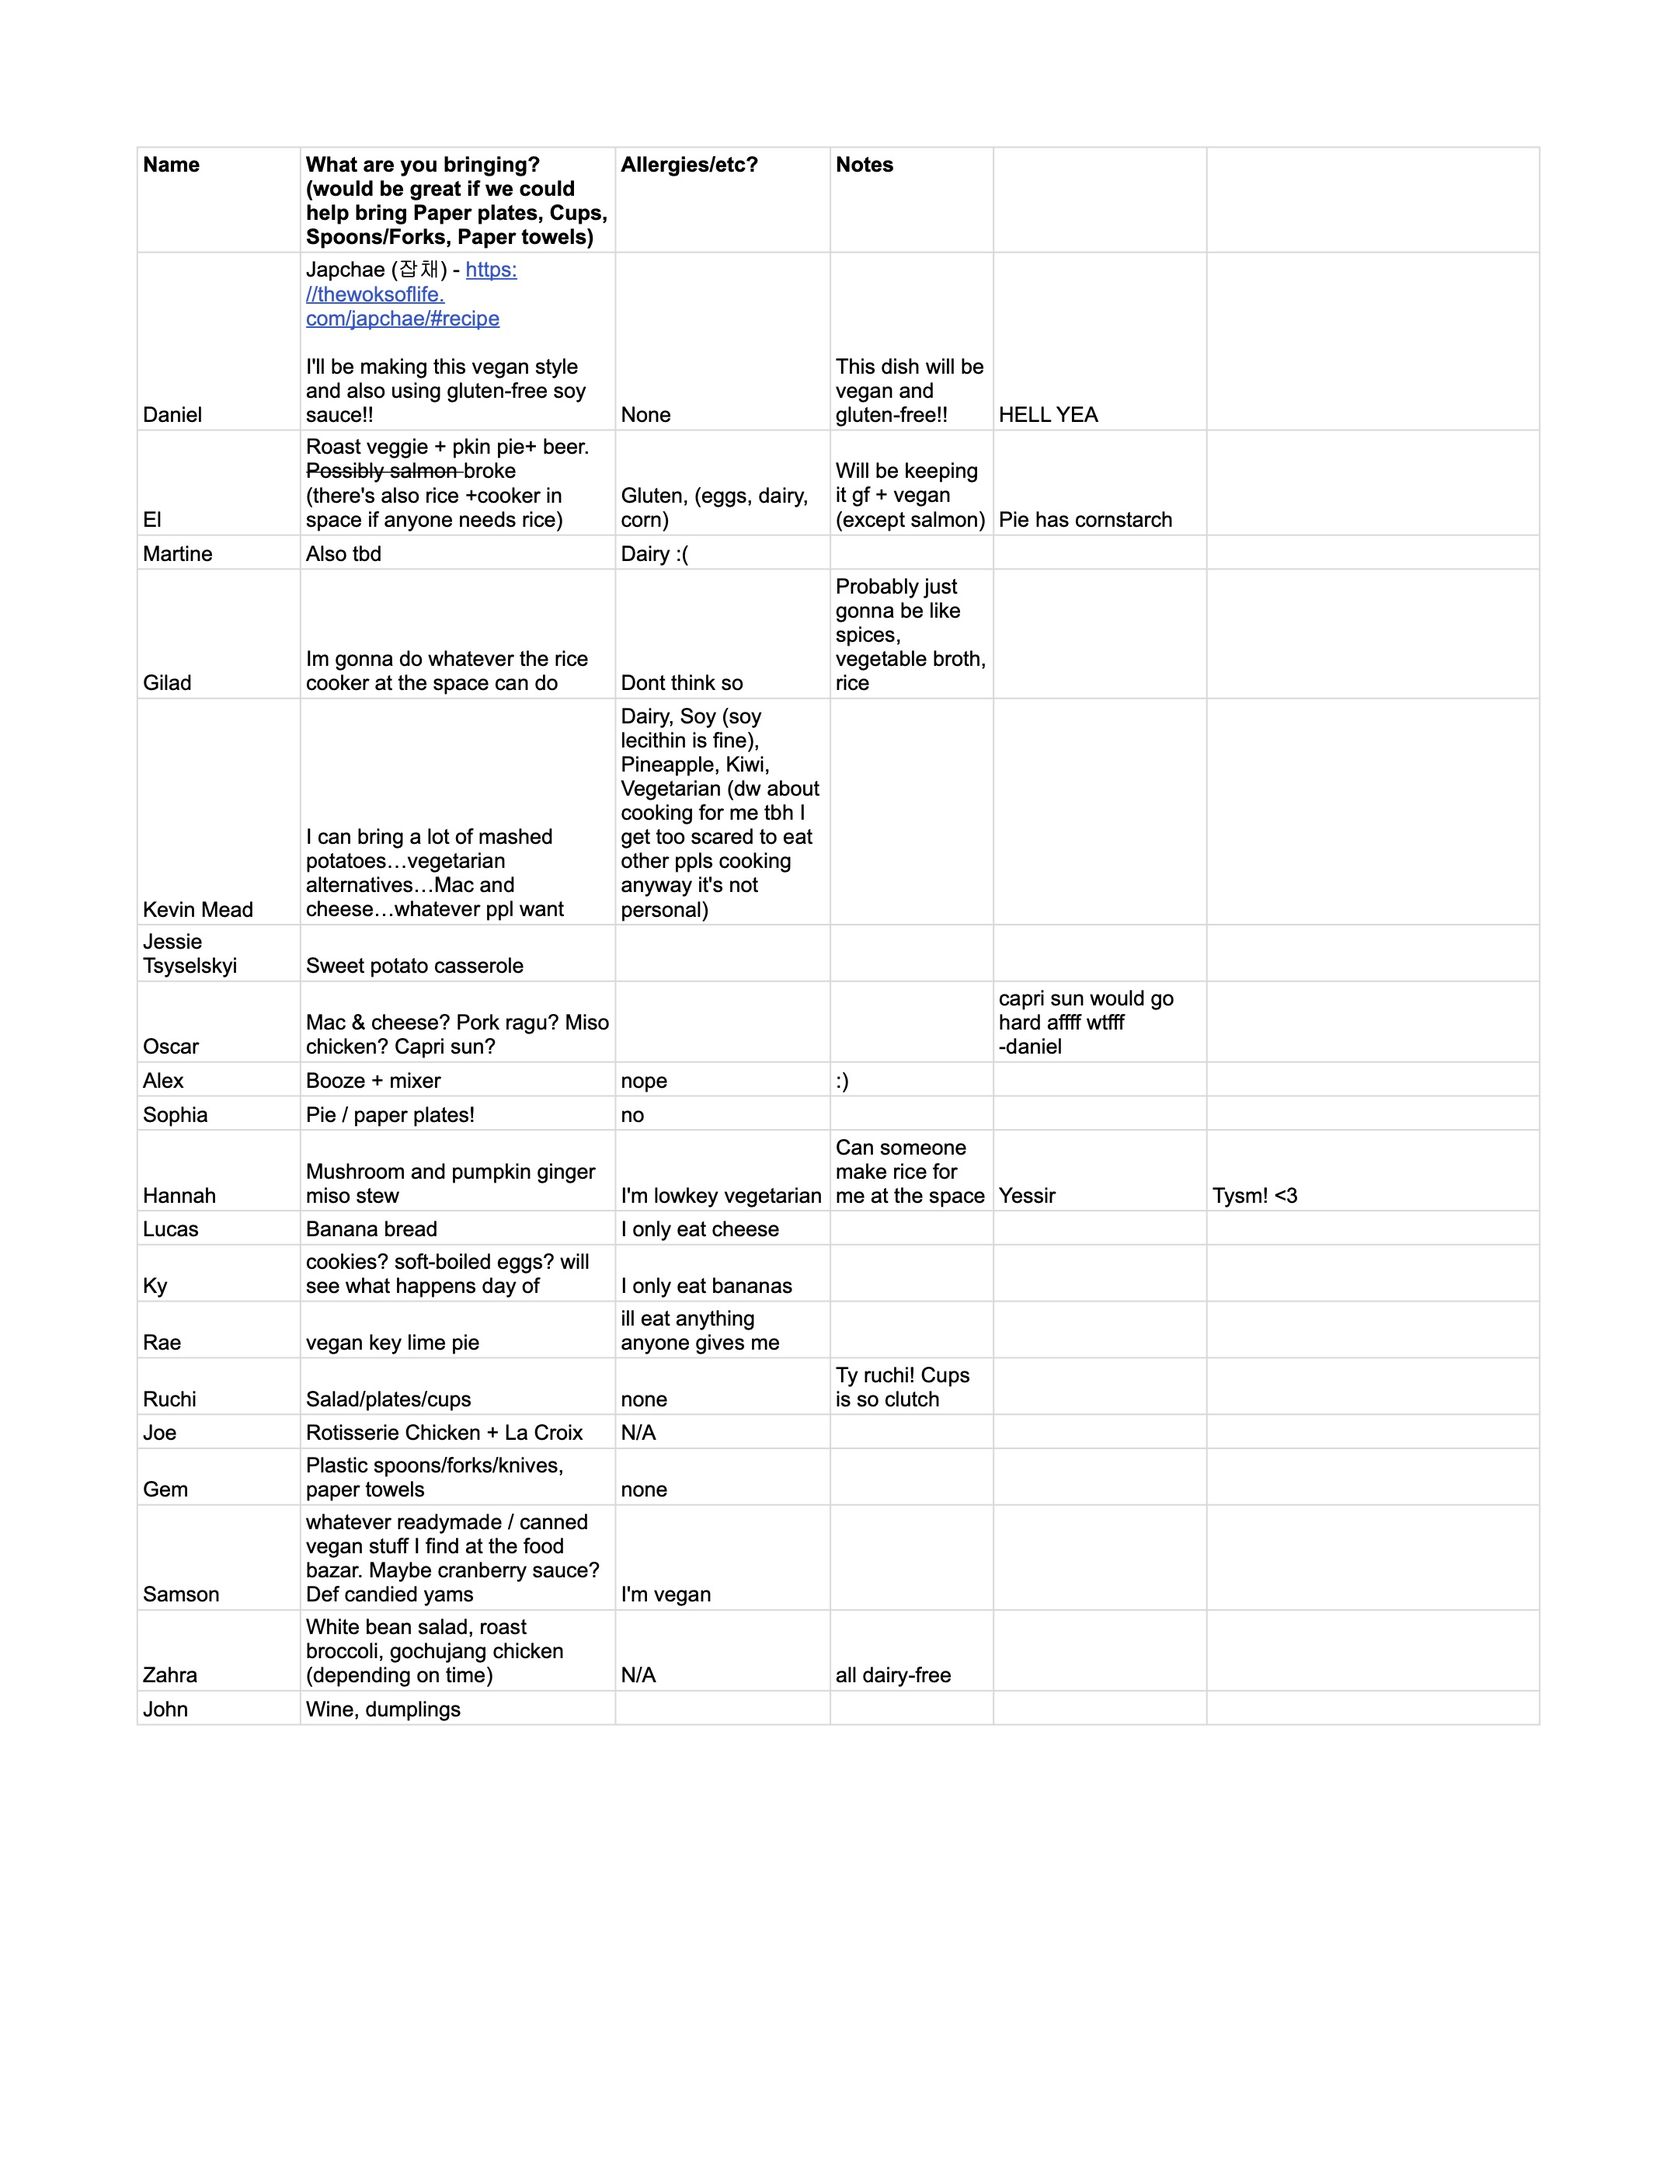
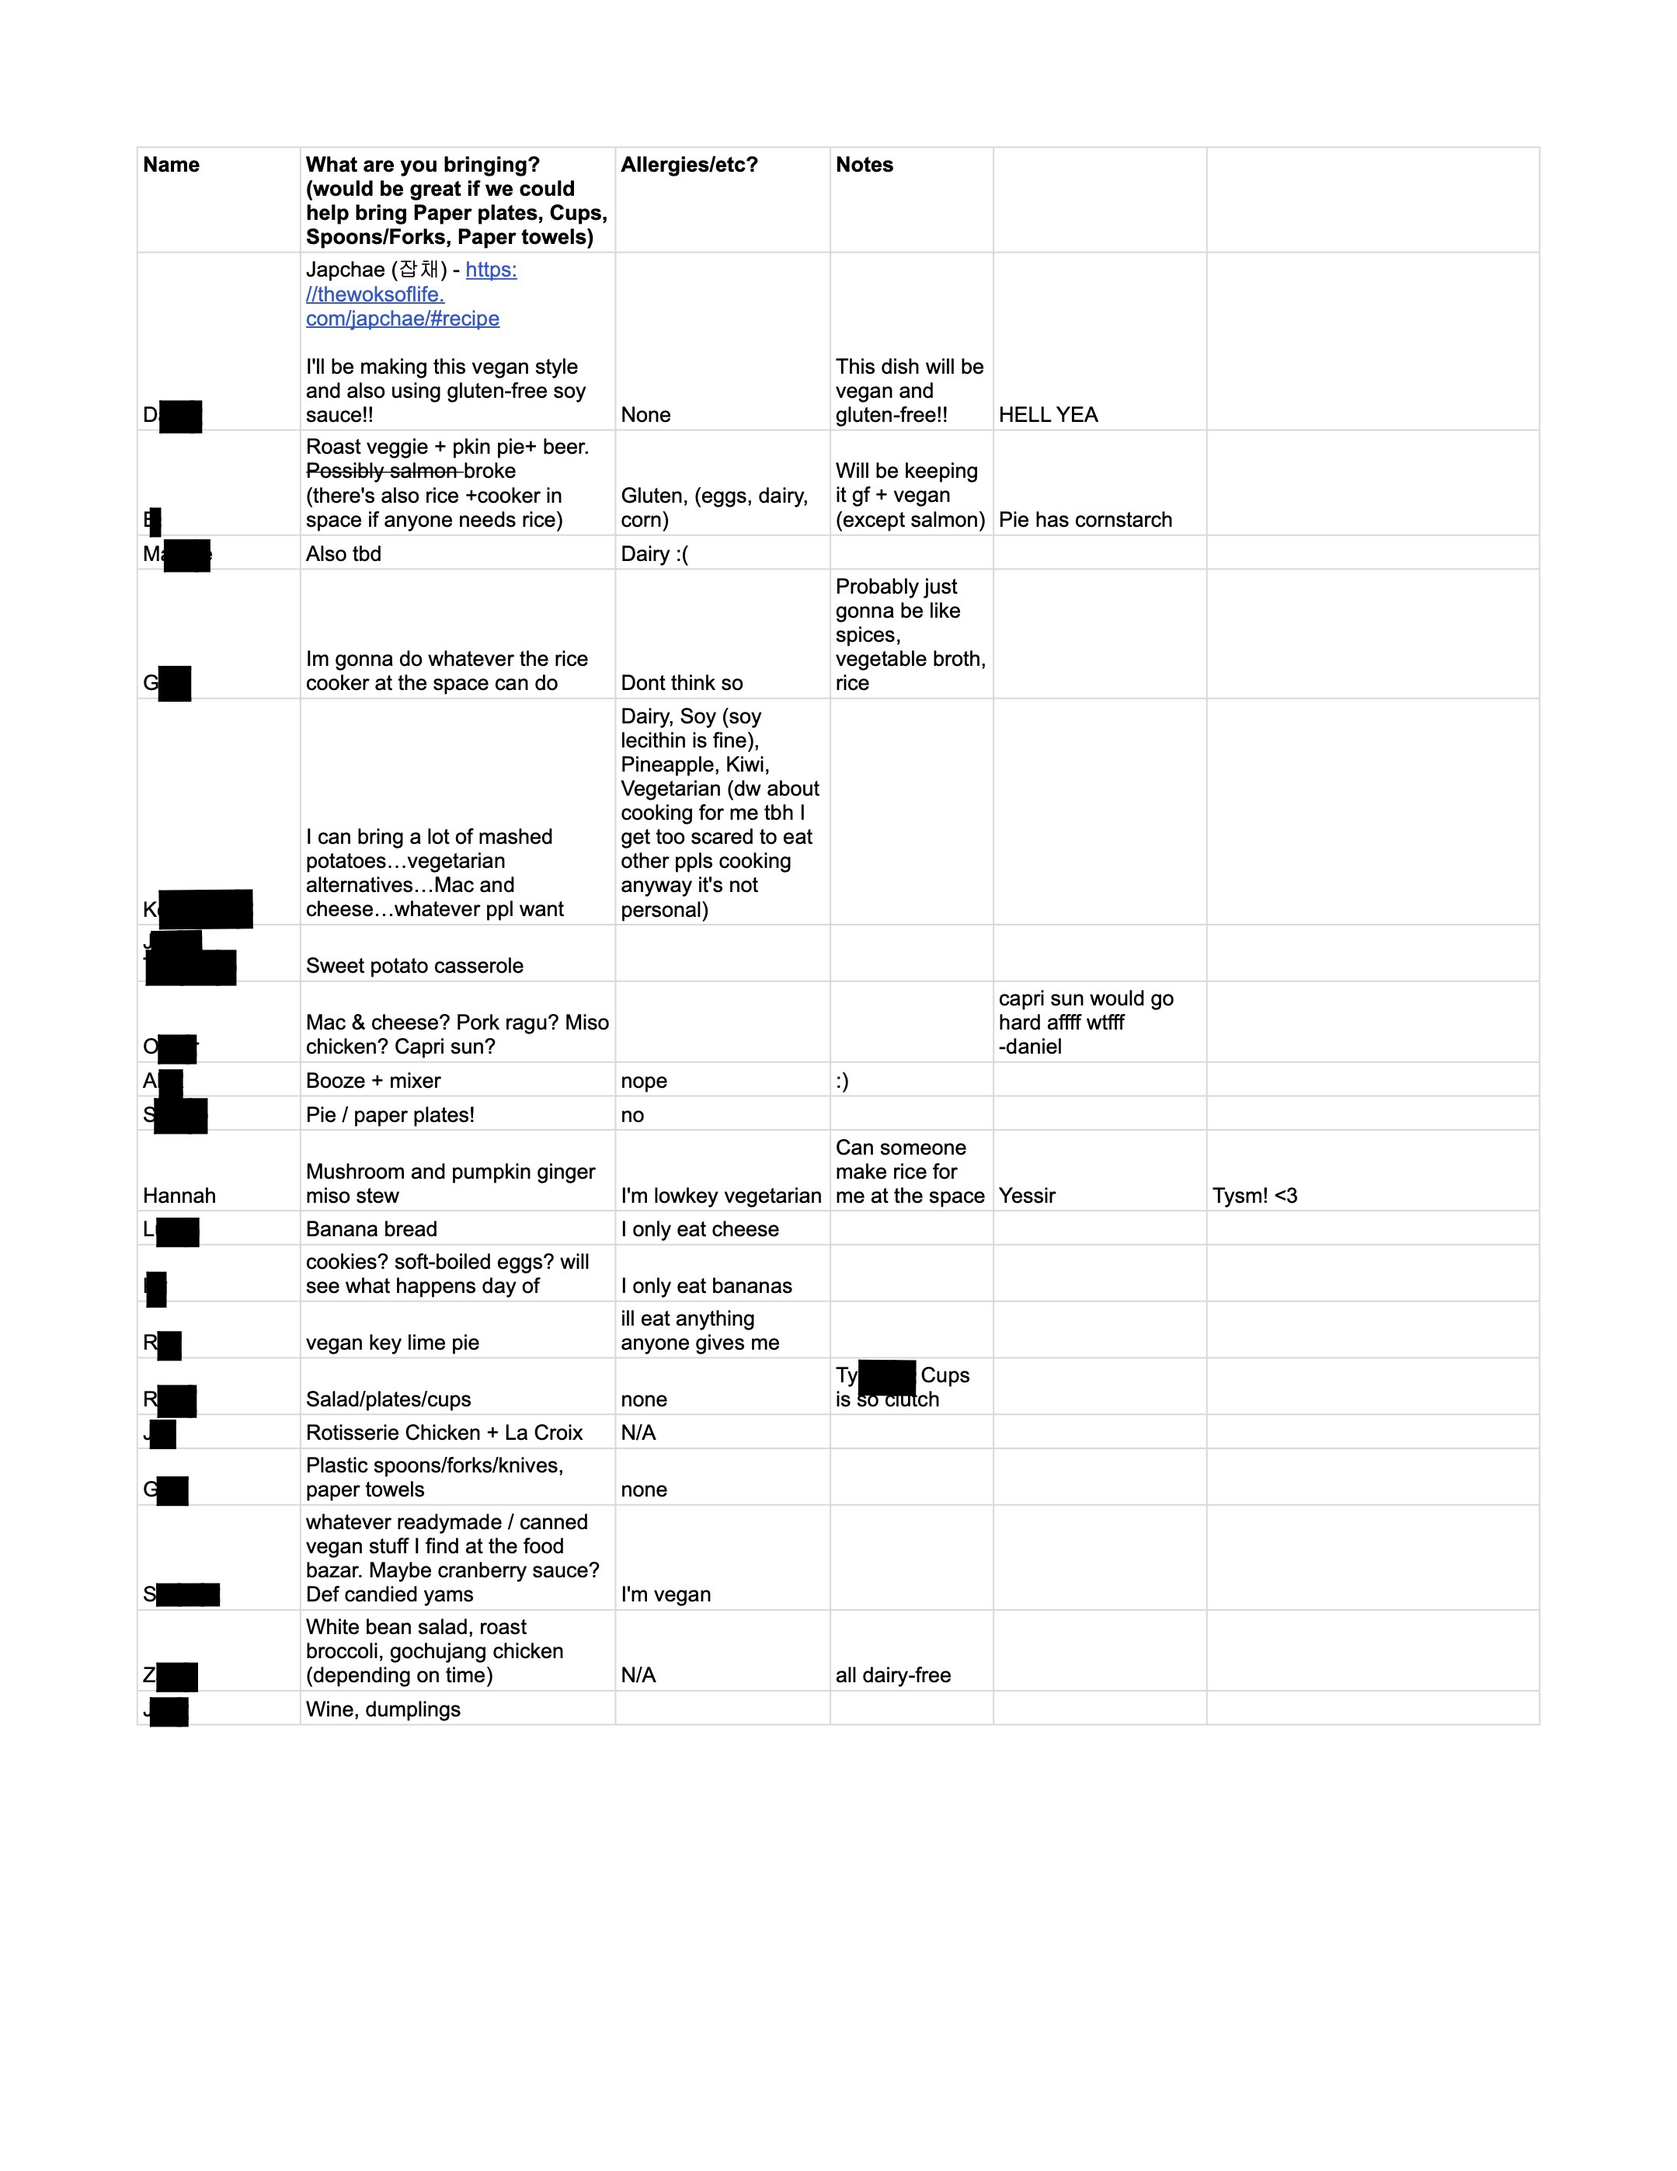
recipes

diff --git a/_posts/2025-11-24-8ball-friendsgiving.md b/_posts/2025-11-24-8ball-friendsgiving.md
@@ -25,6 +25,9 @@ At the end of the night, we packed the leftover food to take it to the community
 
 
 #### Recipe Notes
-- Daniel, regarding Daniel's japchae: "I basically followed [the recipe i linked on the sheet](https://thewoksoflife.com/japchae/#recipe), just without the steak and i forgot the toasted sesame seeds, and i used gluten-free soy sauce"
-- El gave away their roast veggies on the train ride there so we did not get to taste it
+- D, regarding the japchae: "I basically followed [the recipe i linked on the sheet](https://thewoksoflife.com/japchae/#recipe), just without the steak and i forgot the toasted sesame seeds, and i used gluten-free soy sauce"
+- E gave away their roast veggies on the train ride there so we did not get to taste it.
+- G's 8 Ball Space Rice Cooker Rice Recipe:
+    - 1:2 white rice:water
+    - "Put it all in the rice cooker until someone comes in to the kitchenette and asks you if you washed the rice and you say no. They respond, “some people would say that step is of vital importance.” In lieu of a fine strainer you take the first batch of water and kind of swish the rice around and strain it out by hand to the best of your ability. At this point you add salt and the necessary amount of water back in. Turn on the rice cooker until it’s done."
 - My stew was adapted from a Viet steamed ginger chicken recipe. Ginger is the key ingredient, but I also added mushrooms, tofu, miso, soy sauce, peppers sliced thin, vegetable bullion, and a splash of black vinegar on Ishita's insistence.

diff --git a/pages/community.md b/pages/community.md
@@ -62,6 +62,7 @@ Music by friends. Feel free to add your own stuff to the playlist!
 
 - [2025-06-17] [Sichuan Potatoes Recipe by Ishita Padhiar]({{ site.baseurl }}{% post_url 2025-06-17-szechuan-potatoes %})
 - [2025-08-30] [A Modest (Marriage) Proposal by Anonymous]({{ site.baseurl }}{% post_url 2025-08-30-proposal %})
+- [2025-11-24] [Winter Recipes from the Collective]({{ site.baseurl }}{% post_url 2025-11-24-8ball-friendsgiving %})
 
 
 <!-- For navigation from sidebar -->
